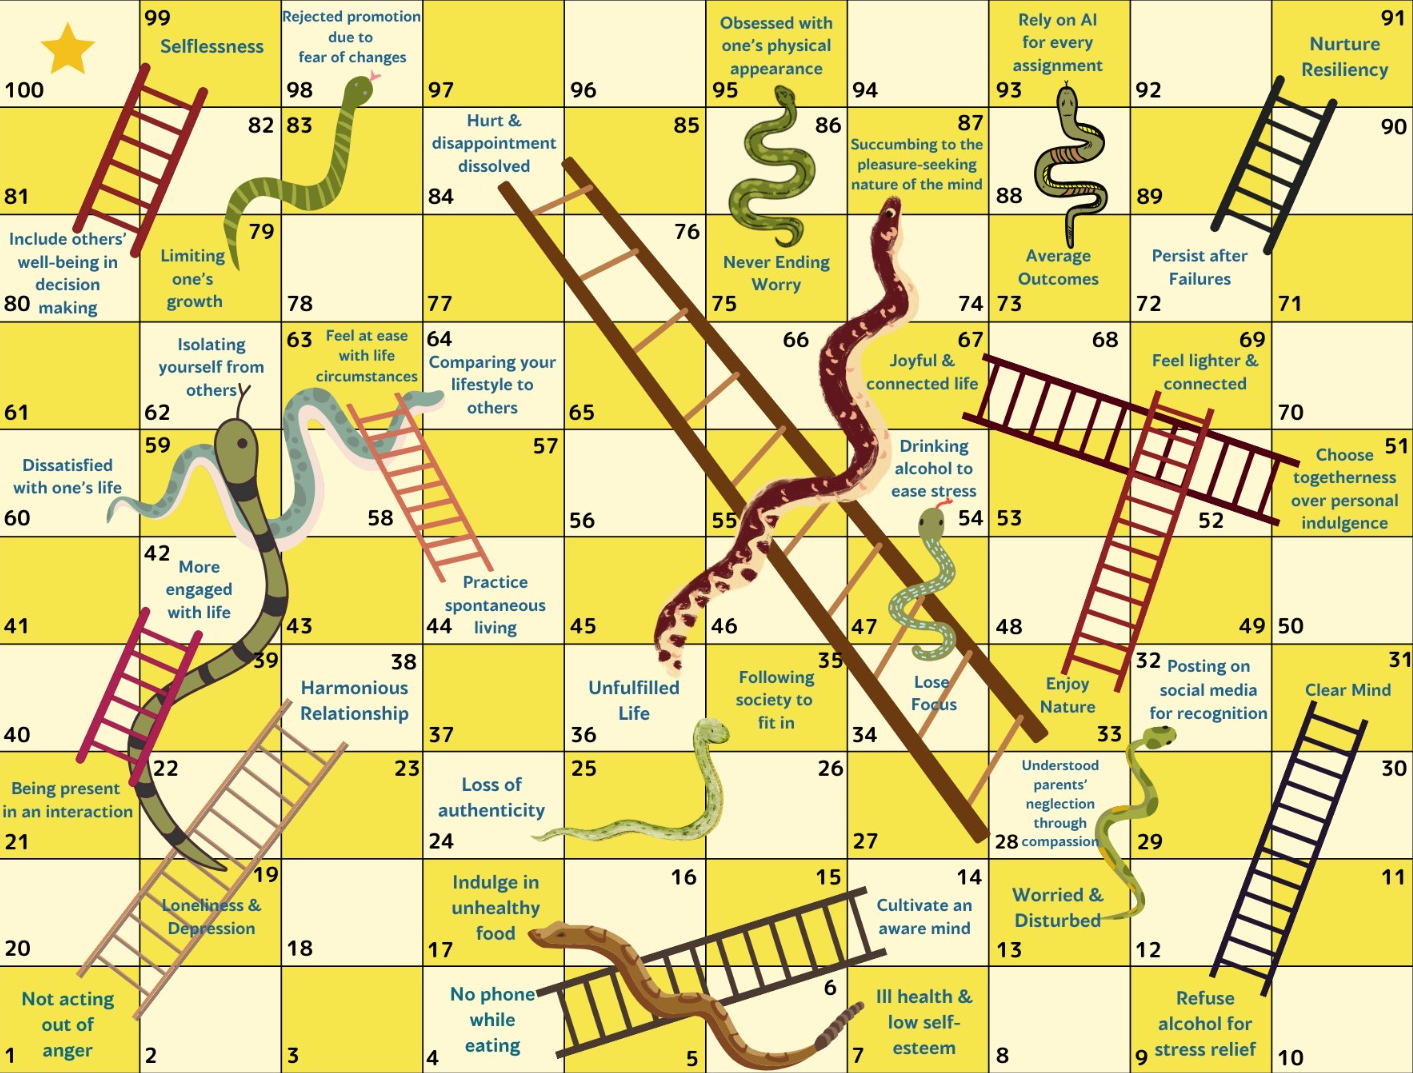
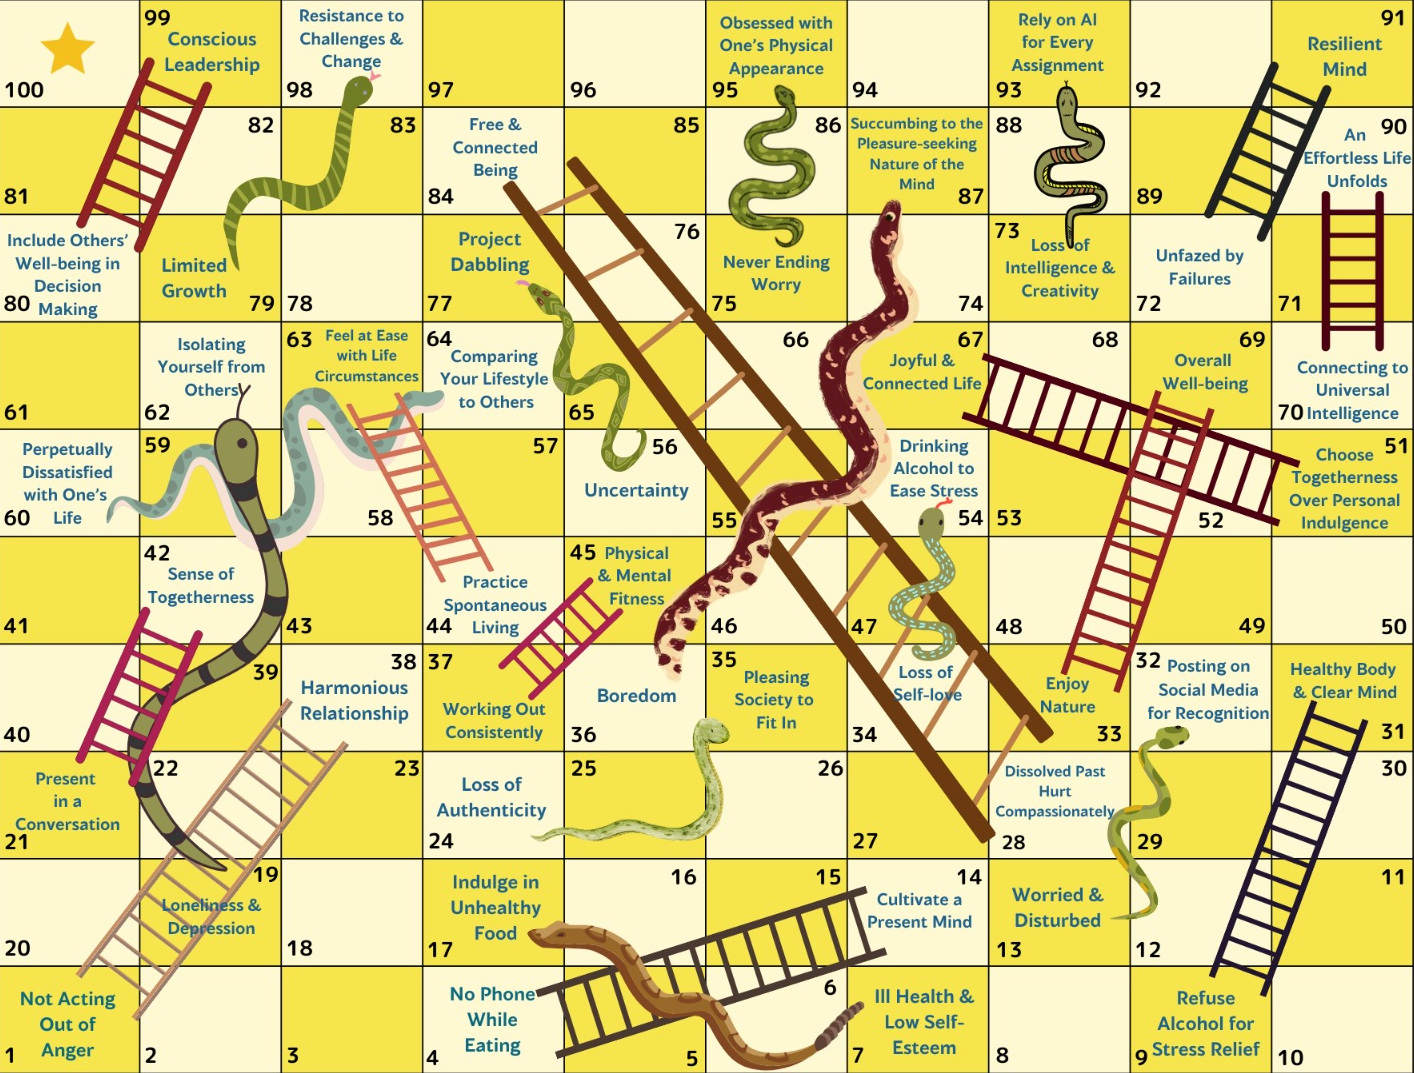
Updated board, causes and effects Sept 18 23

diff --git a/game.js b/game.js
@@ -21,8 +21,10 @@ const snakes_n_ladders = {
     21: 42,
     28: 84,
     33: 69,
+    37: 45,
     44: 63,
     51: 67,
+    70: 90,
     72: 91,
     80: 99,
     // snakes
@@ -32,6 +34,7 @@ const snakes_n_ladders = {
     54: 34,
     62: 19,
     64: 60,
+    77: 56,
     87: 36,
     93: 73,
     95: 75,
@@ -44,44 +47,50 @@ const square_to_text = {
     4: "No phone while eating:",
     9: "Refuse alcohol for stress relief:",
     17: "Indulge in unhealthy food:",
-    21: "Being present in an interaction:",
-    28: "Understood parents' neglection through compassion:",
+    21: "Present in a conversation:",
+    28: "Dissolved past hurt compassionately:",
     32: "Posting on social media for recognition:",
     33: "Enjoy nature:",
-    35: "Following society to fit in:",
+    35: "Pleasing society to fit in:",
+    37: "Working out consistently:",
     44: "Practice spontaneous living:",
     51: "Choose togetherness over personal indulgence:",
     54: "Drinking alcohol to ease stress:",
     62: "Isolating yourself from others:",
     64: "Comparing your lifestyle to others:",
-    72: "Persist after failures:",
+    70: "Connecting to Universal Intelligence:",
+    72: "Unfazed by failures:",
+    77: "Dabbling between projects:",
     80: "Include others' well-being in decision making:",
-    87: "Succumbing to the pleasure-seeking nature of mind:",
+    87: "Succumbing to the pleasure-seeking nature of the mind:",
     93: "Rely on AI for every assignment:",
-    95: "Obsessed with other's opinion about you:",
-    98: "Rejected promotion due to fear of changes:",
+    95: "Obsessed with one's physical appearance:",
+    98: "Resistance to challenges and changes:",
 
     // effects
     7: "Ill health & low self-esteem",
     13: "Worried & Disturbed",
-    14: "Cultivate an aware mind",
+    14: "Cultivate a present mind",
     19: "Loneliness & Depression",
     24: "Loss of authenticity",
-    31: "Clear mind",
-    34: "Lose focus",
-    36: "Unfulfilled life",
+    31: "Healthy body & clear mind",
+    34: "Loss of self-love",
+    36: "Boredom",
     38: "Harmonious relationship",
-    42: "More engaged with life",
-    60: "Dissatisfied with one's life",
+    42: "Sense of togetherness",
+    45: "Physical & mental fitness",
+    56: "Uncertainty",
+    60: "Perpetually dissatisfied with one's life",
     63: "Feel at ease with life circumstances",
     67: "Joyful & connected life",
-    69: "Feel lighter & connected",
-    73: "Loss of creativity", // Average Outcomes
+    69: "Overall well-being",
+    73: "Loss of intelligence & creativity", // Average Outcomes
     75: "Never ending worry",
-    79: "Limiting one's growth",
-    84: "Hurt and disappointment dissolved",
-    91: "Nurture resiliency",
-    99: "Selflessness",
+    79: "Limited growth",
+    84: "Free & connected being",
+    90: "An effortless life unfolds",
+    91: "Resilient Mind",
+    99: "Conscious Leadership",
 }
 
 const updatePlayerCounter = () => {
